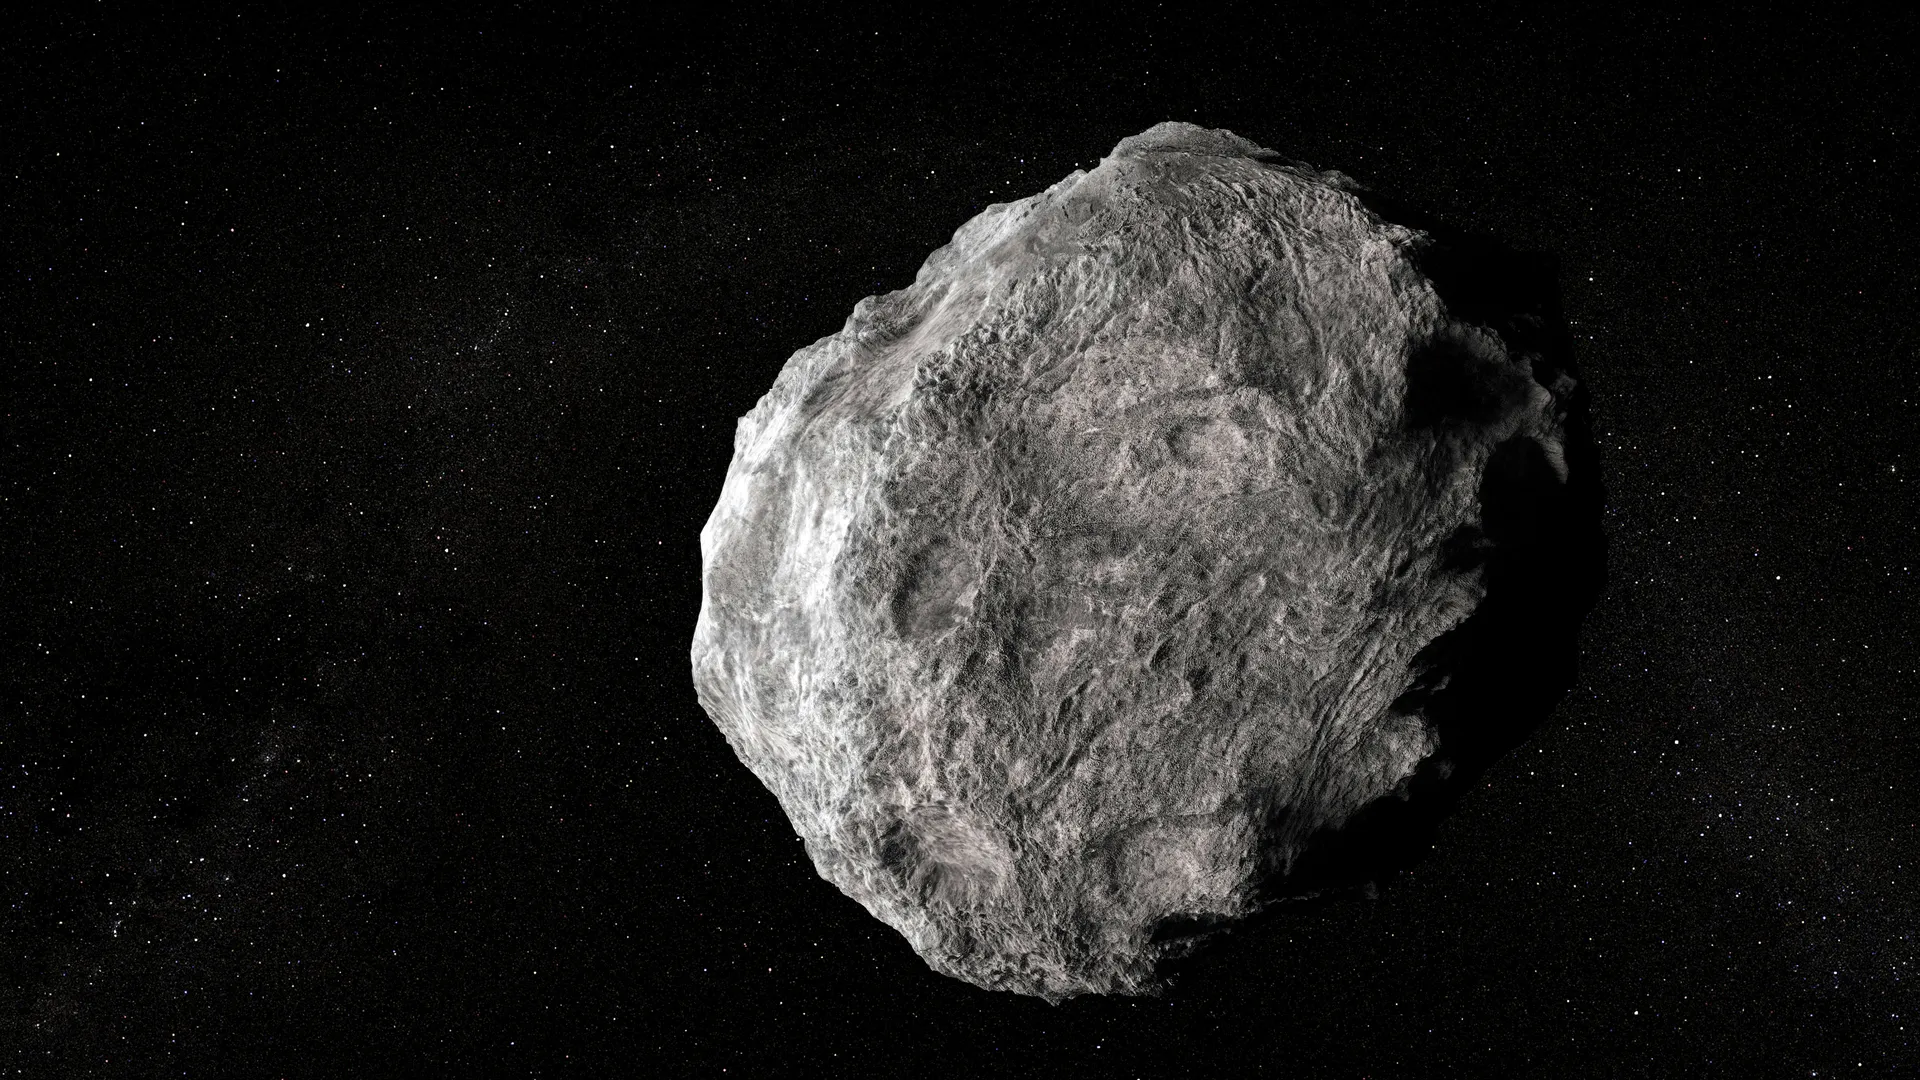
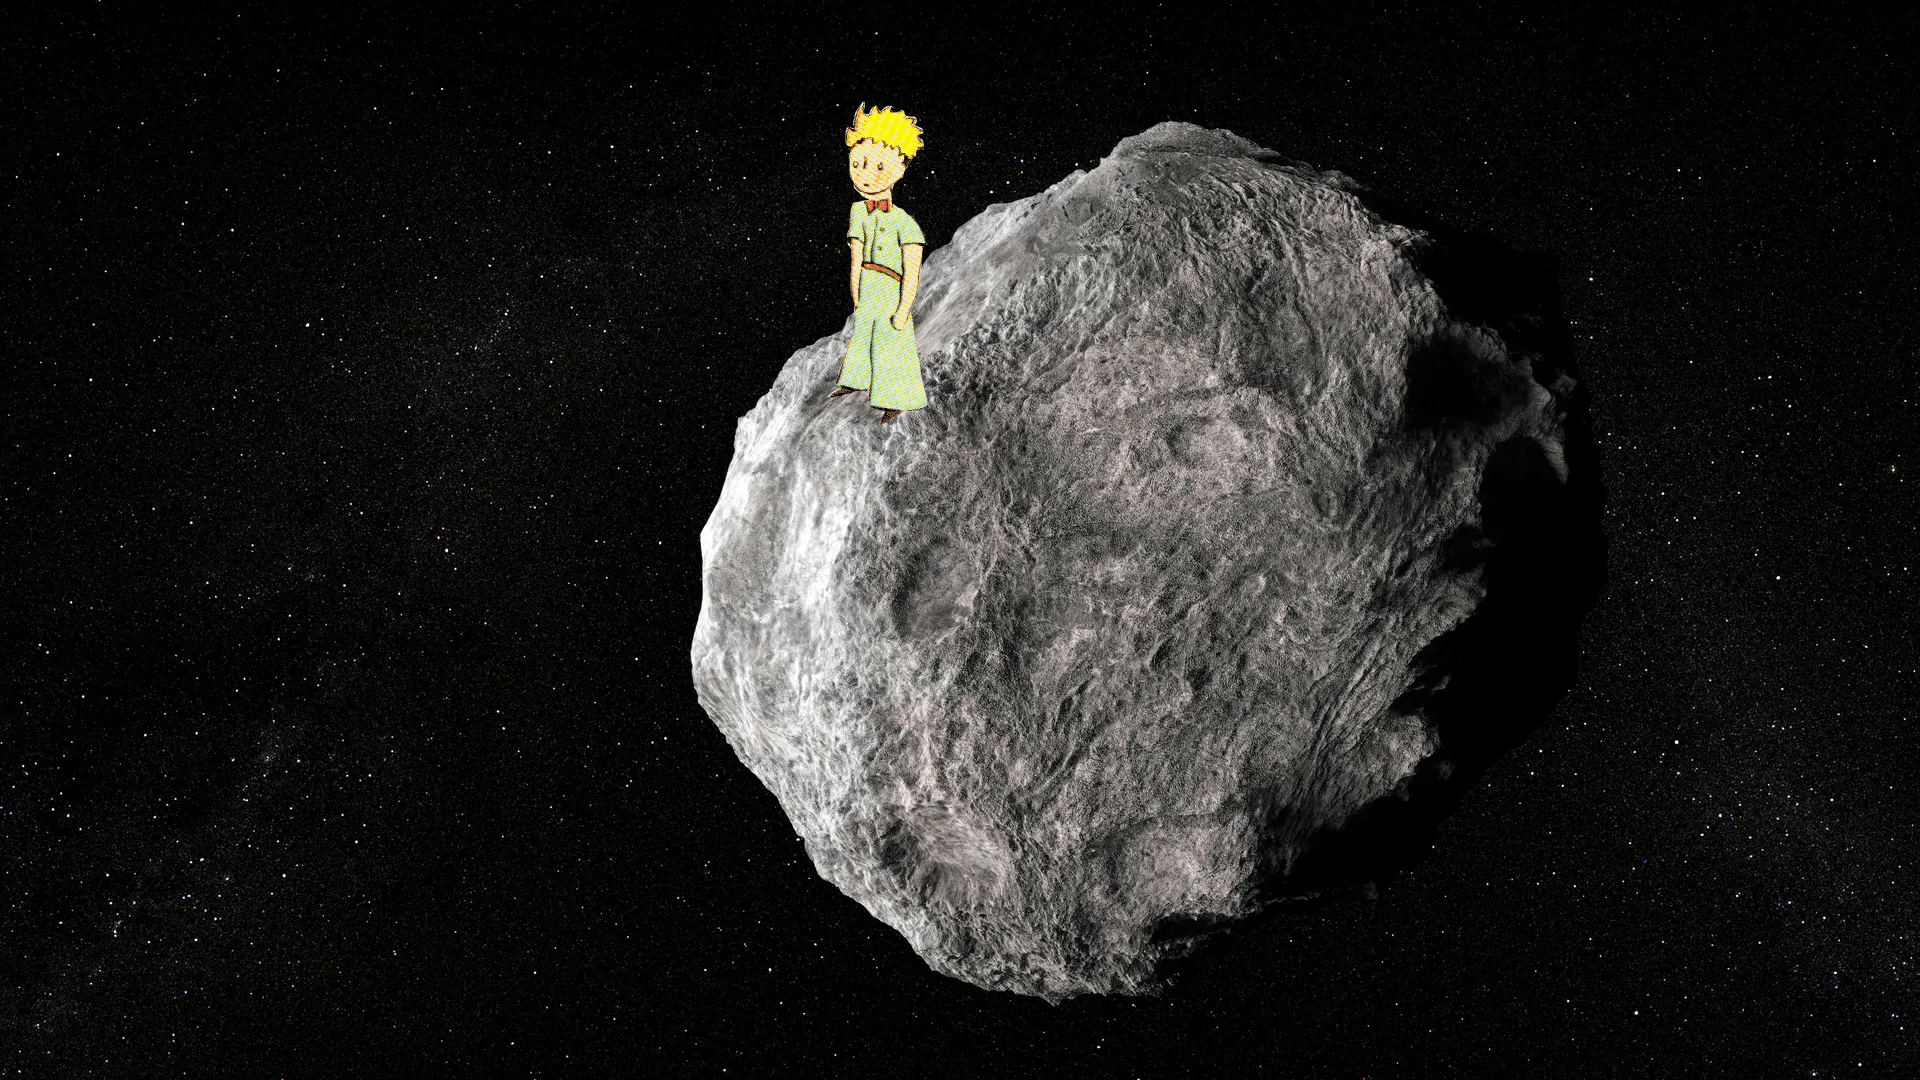
asteroid new - dash-index-show html

Changed region(s): [[0.4375, 0.0917, 0.5, 0.3972]]

diff --git a/app/assets/stylesheets/components/_index.scss b/app/assets/stylesheets/components/_index.scss
@@ -16,3 +16,4 @@
 @import "container_romano";
 @import "button";
 @import "dashboard";
+@import "container_planet_index";

diff --git a/app/assets/stylesheets/components/_container_planet_index.scss b/app/assets/stylesheets/components/_container_planet_index.scss
@@ -1,0 +1,4 @@
+.planet-index-container h5 {
+  color: #F29CA3;
+  font-family: 'Trispace', sans-serif;
+}

diff --git a/db/seeds.rb b/db/seeds.rb
@@ -39,8 +39,7 @@ user.save!
 planets = [
   [{ name: "JIJI-36-Luxuria", description: "Cette planète vous charmera par sa luxiuriance. Ses 3 jungles d'une superficie totale de 15000 km2 abritent une faune et une flore exceptionnelle. ATTENTION certaines espèces venimeuses tombent des fougères géantes, aussi prévoyez un extracteur venimique à double insertion et alimentation solaire. La marque Aspi-venin est recommandée", address: "36 Interespace forestier de la nébuleuse du tilleul, galaxie de la tete de renard.", planet_type: "Forestière", price: 37000 }, "forest-ok"],
   [{ name: "Galak-Z36", description: "Cette planète boule de neige vous charmera par son air vivifiant, son environnement paisible et ses températures glaciales. Aucun congélateur n'est à prévoir concernant vos réserves de nourritures, stockable en plein air. L'activité principale proposée aux visiteurs est le patin à glace. 125.690km de pistes vous sont dédiées.", address: "137 piste interstallaire ZZ-67 , galaxie du traineau.", planet_type: "Snowball", price: 45000}, "snowball"],
-  [{ name: "DUR-Asterios-ZZPP", description: "Cet astéroid conviendra parfaitement aux visiteurs en quête de solitude, de farniente. Vous n'aurez d'autre activité que la contemplation de la noirceur de l'univers, en vision directe sans distortion colorimétrique due à une atmosphère. ", address: "2600 passage du vide intergalactique , amas du trou noir ZZ-666", planet_type: "Asteroide", price: 500}, "asteroid"],
-  [{ name: "Asteroid B-612", description: "Cette planète astéroide charmera les enfants terriens qui y retrouveront l'un des personnages phare de leur enfance, le petit prince. Les activités proposées sont le ramonage des petits volcans de l'asteroide ainsi que l'arrachage de baobabs qui fleurissent à sa surface. Enfin, en déplaçant leurs chaises de quelques centimètres par heure, les enfants pourront voir le soleil se coucher 44 fois par jour.", address: "37, passage galactique de l'allumeur de réverbère, constellation du mouton.", planet_type: "Asteroide", price: 1200 }, "prince"]
+  [{ name: "DUR-Asterios-ZZPP", description: "Cette planète astéroide charmera les enfants terriens qui y retrouveront l'un des personnages phare de leur enfance, le petit prince. Les activités proposées sont le ramonage des petits volcans de l'asteroide ainsi que l'arrachage de baobabs qui fleurissent à sa surface. Enfin, en déplaçant leurs chaises de quelques centimètres par heure, les enfants pourront voir le soleil se coucher 44 fois par jour.", address: "37, passage galactique de l'allumeur de réverbère, constellation du mouton.", planet_type: "Asteroide", price: 1200 }, "asteroid"],
 ]
 
 planets.each do |planet|
